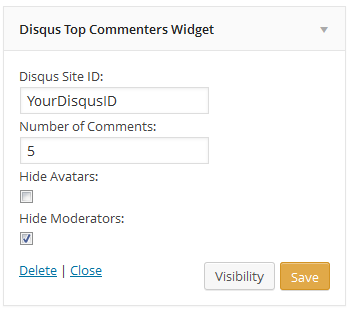
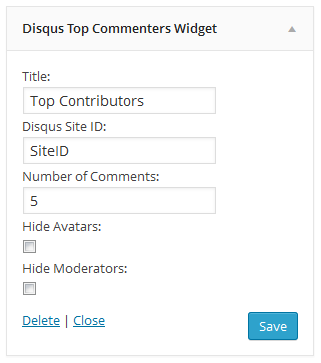
Version number & screenshot-1.png updated :)
git-svn-id: https://plugins.svn.wordpress.org/disqus-top-commenters-widget-by-tricks-panda/trunk@948331 b8457f37-d9ea-0310-8a92-e5e31aec5664

diff --git a/disqus-tcw.php b/disqus-tcw.php
@@ -3,7 +3,7 @@
 Plugin Name: Top Commenters Widget For Disqus
 Plugin URI: http://www.trickspanda.com
 Description: Add a Disqus top commenters widget to your WordPress blog's sidebar
-Version: 1.0
+Version: 1.1
 Author: Hardeep Asrani
 Author URI: http://www.hardeepasrani.com
 */
